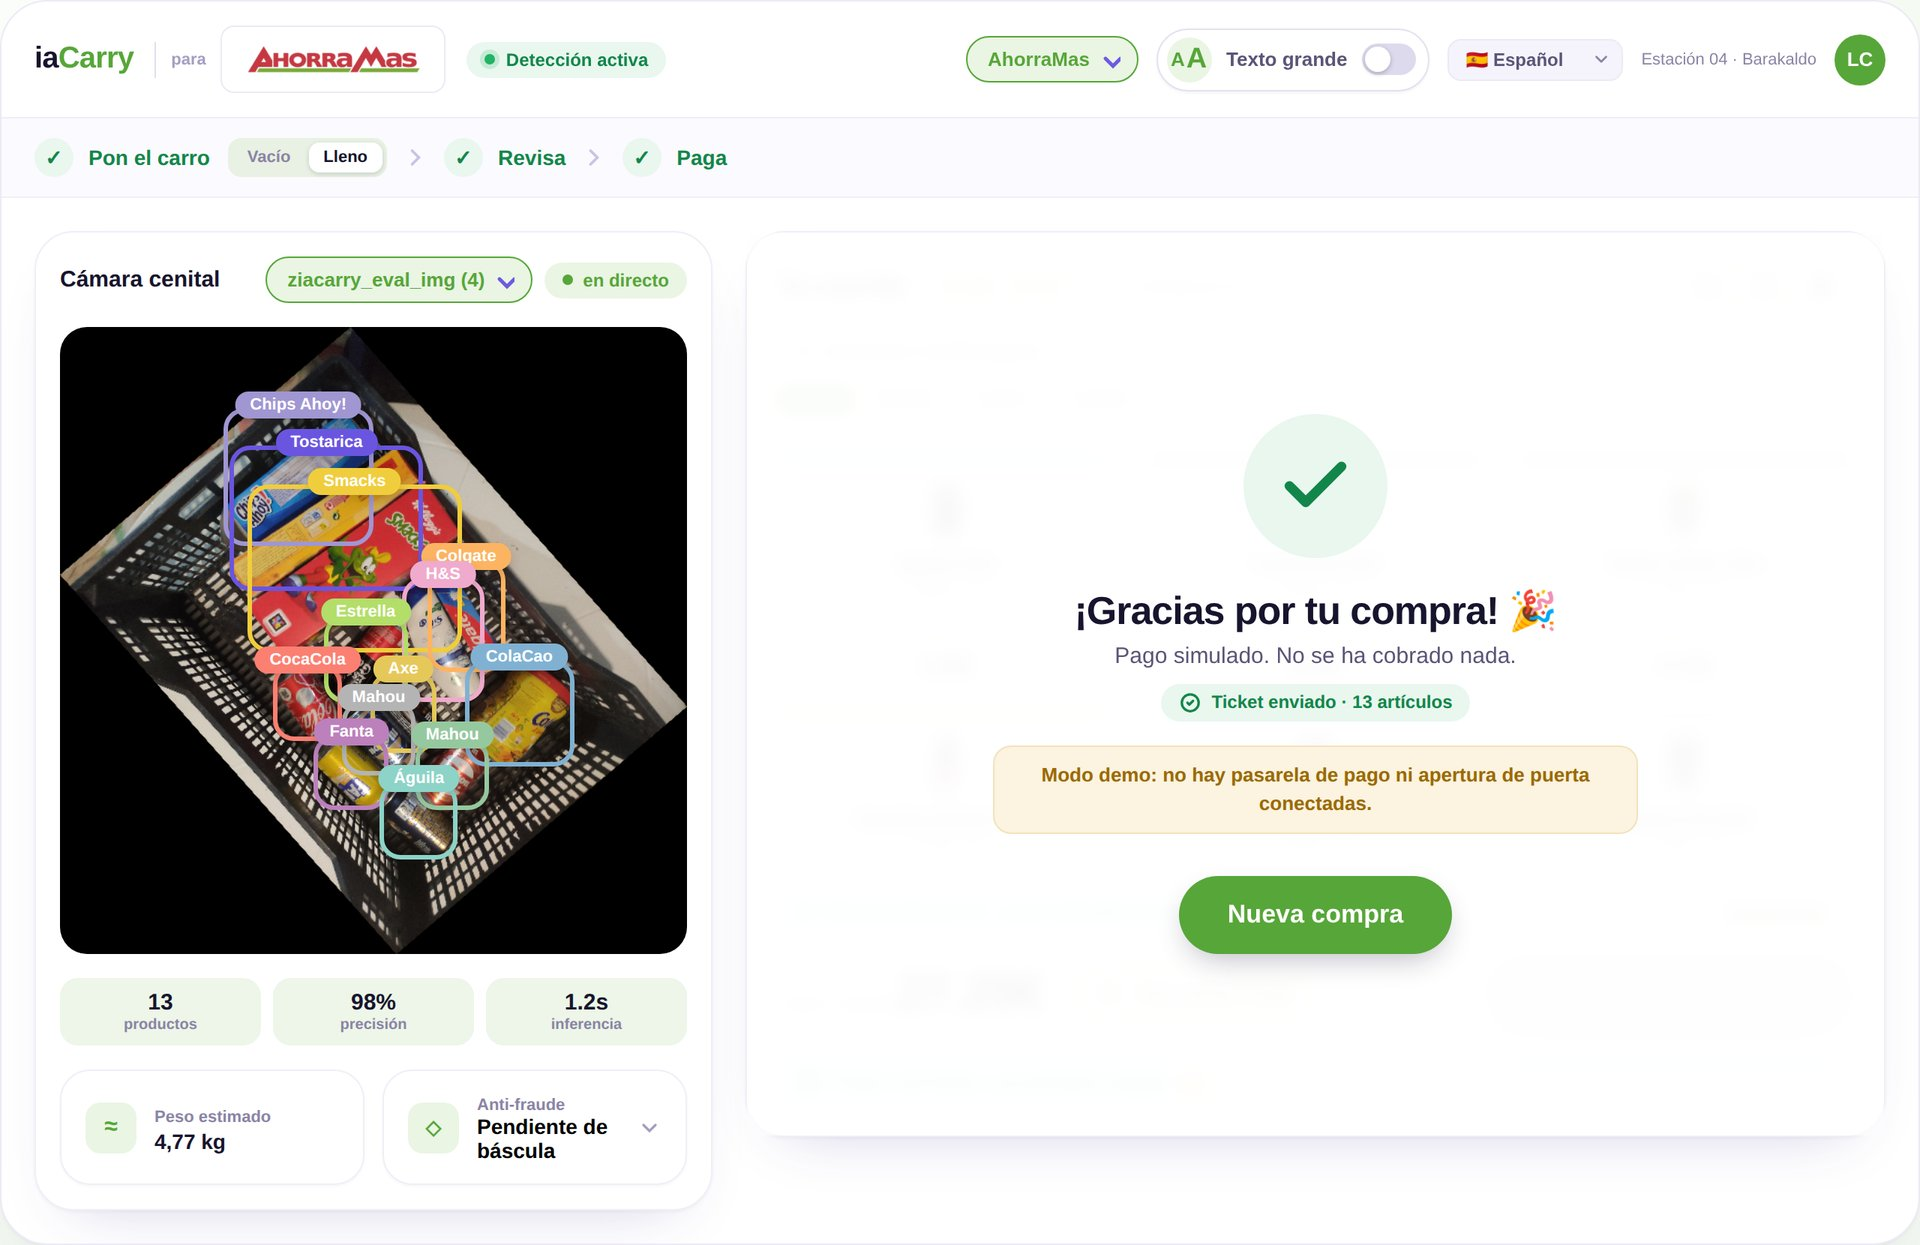
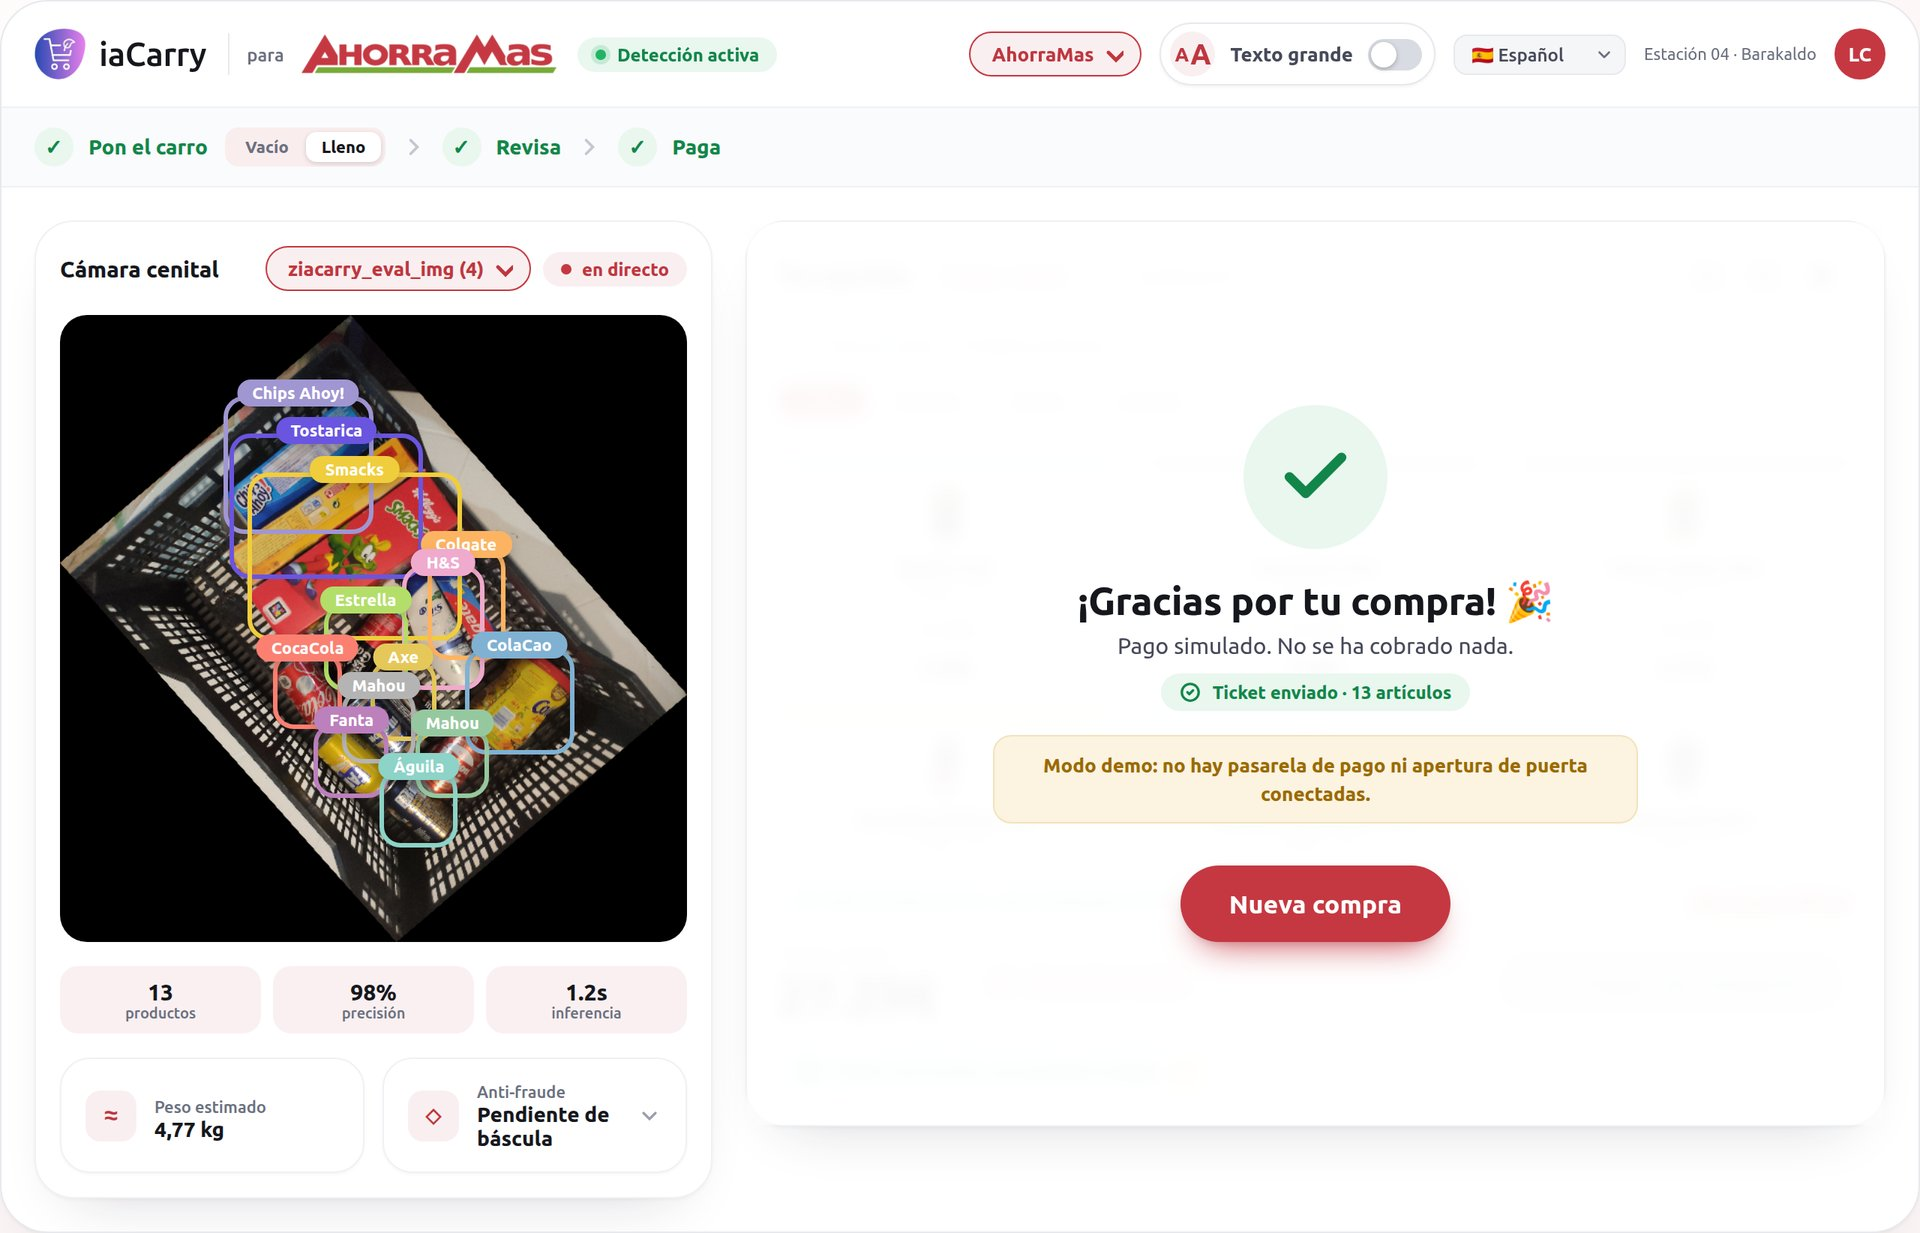
Regenerate the checkout screenshots with the new branding
make_screens.py now also makes checkout_screen_2026.jpg (iaCarry theme,
English, demo photo 3), so all seven shots come from one command. The
station screens in presentation/sora/ are regenerated with the same page;
their camera frames are unchanged.

Claude-Session: https://claude.ai/code/session_01DNyPBYMNnAc68gGiNtdJUx

diff --git a/presentation/make_screens.py b/presentation/make_screens.py
@@ -1,7 +1,7 @@
-"""Regenerate the screen_*.jpg screenshots in presentation/images/.
+"""Regenerate the checkout screenshots in presentation/images/.
 
 Starts the stub server (hand-labelled demo photos, no model needed), drives the
-checkout page through six scenes and saves each as a JPEG. Edit SCENES to change
+checkout page through seven scenes and saves each as a JPEG. Edit SCENES to change
 the retailer, language, cart state or buttons of a shot.
 
     python3 presentation/make_screens.py
@@ -28,6 +28,7 @@ BASE = "http://127.0.0.1:%d/" % PORT
 # file name, retailer, language, demo photo, cart, density, large text,
 # AI confidence, anti-fraud panel open, pay
 SCENES = [
+    ("checkout_screen_2026",           "iacarry",   "en", "demo3", "full",  "cols3",   False, False, False, False),
     ("screen_1_mercadona_full",        "mercadona", "es", "demo1", "full",  "cols3",   False, False, False, False),
     ("screen_2_eroski_confidence",     "eroski",    "en", "demo2", "full",  "comfort", False, True,  False, False),
     ("screen_3_condis_largetext",      "condis",    "fr", "demo3", "full",  "compact", True,  False, True,  False),

diff --git a/presentation/README.md b/presentation/README.md
@@ -30,7 +30,7 @@ that shows the old interface or is no longer used is in `images/old/`.
 | `logo_iacarry_full.png` | The iaCarry logo with its tagline, "payment in just 6 seconds!" | own logo |
 | `station_cart_2025.jpg` | The weighing station for **large purchases**: a trolley on the scale under the overhead camera, a vertical screen showing the real interface, card terminal, enter / do-not-enter signal, exit gate | Sora, 2025; this deck, slide 2 |
 | `station_cesta_2025.jpg` | The weighing station for **small purchases**: a basket on the scale under the overhead camera, a vertical screen showing the real interface, card terminal | Sora, 2025; this deck, slides 1 and 7 |
-| `checkout_screen_2026.jpg` | The current checkout screen on demo photo 3, iaCarry theme | screenshot |
+| `checkout_screen_2026.jpg` | The current checkout screen on demo photo 3, iaCarry theme, English | screenshot, `make_screens.py` |
 | `screen_1…6_*.jpg` | The current checkout screen per retailer, see below | screenshots |
 
 ### Checkout screen, one shot per retailer
